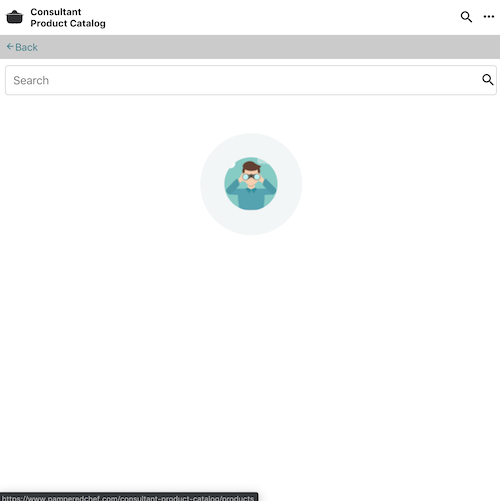
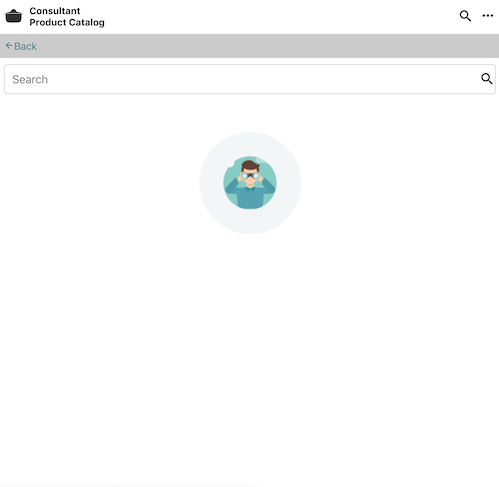
carousel

diff --git a/src/components/modal/index.js b/src/components/modal/index.js
@@ -1,11 +1,23 @@
 import { h } from "preact";
 import style from "./style";
+import { useReducer } from "preact/hooks";
 
-const Modal = ({onClose, showSelf, imageUrls, projectName, companyName, tech}) => {
+const reducer = (state, action) => {
+	switch (action.type) {
+		case 'increment': 
+			return state.imageIndexToDisplay === action.data ? {imageIndexToDisplay: 0} : {imageIndexToDisplay: state.imageIndexToDisplay + 1}
+		case 'decrement': 
+			return state.imageIndexToDisplay === 0 ? {imageIndexToDisplay: action.data - 1} : {imageIndexToDisplay: state.imageIndexToDisplay - 1};
+		default: return {imageIndexToDisplay: 0};
+	}
+};
+const Modal = ({ onClose, showSelf, imageUrls, projectName, companyName, tech }) => {
+	const [{imageIndexToDisplay}, dispatch] = useReducer(reducer, {imageIndexToDisplay: 0});
+	console.log("*******", imageIndexToDisplay);
 	return (
-		showSelf? 
+		showSelf ?
 			<div className={style.Modal} >
-				<div className={style.backdrop} onClick={() => {onClose()}}>
+				<div className={style.backdrop} onClick={() => { onClose() }}>
 				</div>
 				<div className={style.modalBox}>
 					<div className={style.modalHeader}>
@@ -13,8 +25,16 @@ const Modal = ({onClose, showSelf, imageUrls, projectName, companyName, tech}) =
 							<span class="icon-close"></span>
 						</div>
 					</div>
-					<div className={style.currentImage}>
-						<img src={imageUrls[0]} alt={`${projectName} demo image ${1}`}/>
+					<div className={style.imageCarousel}>
+						<div className={style.previousImage} onClick={() => dispatch({type: "decrement", data: imageUrls.length - 1})}>
+							<span class="icon-chevron-left" />
+						</div>
+						<div className={style.currentImage}>
+							<img src={imageUrls[imageIndexToDisplay]} alt={`${projectName} demo image ${1}`} />
+						</div>
+						<div className={style.nextImage} onClick={() => dispatch({type: "increment", data: imageUrls.length - 1})}>
+							<span class="icon-chevron-right" />
+						</div>
 					</div>
 					<div className={style.title}>
 						<span className={style.projectName}>{projectName}</span>
@@ -25,12 +45,12 @@ const Modal = ({onClose, showSelf, imageUrls, projectName, companyName, tech}) =
 							Built using: {tech}
 						</span>
 					</div>
-					
+
 				</div>
 			</div>
-		: ""
+			: ""
 	)
-	
+
 }
 
 export default Modal;

diff --git a/src/components/modal/style.css b/src/components/modal/style.css
@@ -30,6 +30,8 @@
 
 .currentImage{
    max-width: 80%;
+   max-height: 500px;
+   overflow: hidden;
    /* border: 1px solid lightgray; */
    /* border-radius: 5px; */
    box-shadow: bisque;
@@ -43,9 +45,12 @@
 
 .modalHeader{
    display: flex;
-   justify-content: space-between;
+   justify-content: flex-end;
 }
 
+.companyName{
+   padding-left: 5px;
+}
 .title,
 .tech {
    display: flex;
@@ -55,7 +60,22 @@
 
 .close{
    padding: 15px;
+   font-size: 1.5rem;
+   cursor: pointer;
+}
 
+.imageCarousel{
+   display: flex;
+}
+
+.nextImage, 
+.previousImage{
+   flex: 1;
+   display: flex;
+   justify-content: center;
+   align-items: center;
+   font-size: 2rem;
+   cursor: pointer;
 }
 
 .tech {
